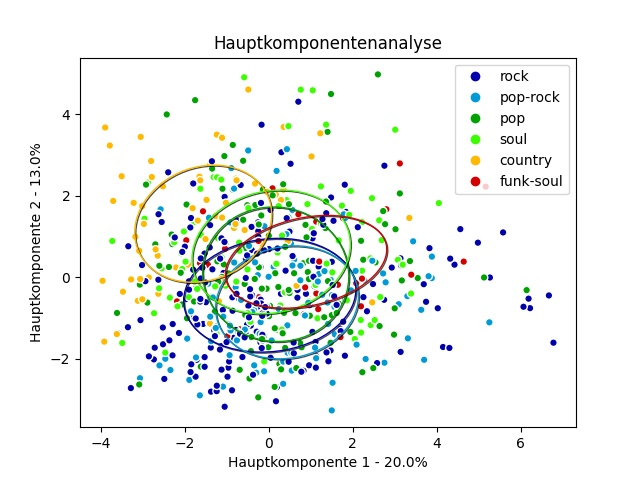
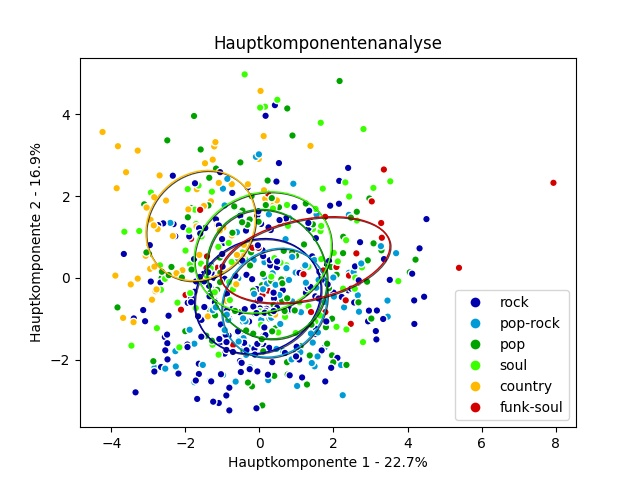
backup

diff --git a/src/dimension_reduction/common.py b/src/dimension_reduction/common.py
@@ -139,14 +139,13 @@ audio_feature_keys = ['danceability', 'energy', 'key', 'loudness', 'mode', 'spee
                       'instrumentalness', 'liveness', 'valence', 'tempo', 'duration_ms', 'time_signature']
 
 
-#feature_list_year = ['acousticness', 'danceability', 'duration_ms', 'energy', 'loudness', 'minor_percentage', 'major_percentage', 'neither_chords', 'get_added_seventh_use', 'non_triad_chords_percentage', 'tonic_percentage', 'v_to_i', 'circle_of_fifths_dist', 'circle_of_fifths_dist_largest_dist', 'chord_distances', 'chord_distances2', 'different_chords', 'different_progressions', 'different_notes', 'different_sections_count', 'chorus_repetitions']
-# feature_list_year = ['acousticness', 'danceability', 'duration_ms', 'energy', 'major_percentage', 'neither_chords', 'get_added_seventh_use', 'non_triad_chords_percentage', 'tonic_percentage', 'v_to_i', 'circle_of_fifths_dist', 'circle_of_fifths_dist_largest_dist', 'chord_distances', 'chord_distances2', 'different_chords', 'different_progressions', 'different_sections_count', 'chorus_repetitions']
-#feature_list_year = ['acousticness', 'danceability', 'duration_ms', 'energy', 'major_percentage', 'neither_chords', 'get_added_seventh_use', 'non_triad_chords_percentage', 'circle_of_fifths_dist', 'chord_distances', 'chord_distances2', 'different_sections_count', 'chorus_repetitions']
-feature_list_year = ['acousticness', 'danceability', 'duration_ms', 'energy', 'major_percentage', 'neither_chords', 'non_triad_chords_percentage', 'chord_distances2', 'different_sections_count', 'chorus_repetitions']
+# feature_list_year = ['acousticness', 'danceability', 'duration_ms', 'energy', 'major_percentage', 'neither_chords', 'non_triad_chords_percentage', 'chord_distances2', 'different_sections_count', 'chorus_repetitions']
 
+feature_list_year = ['acousticness', 'danceability', 'duration_ms', 'energy', 'major_chords', 'neither_chords', 'non_triad_chords', 'bass_distances', 'different_sections', 'chorus_repetitions']
 feature_list_chart_pos = ['danceability', 'loudness', 'minor_percentage', 'major_percentage', 'tonic_percentage', 'circle_of_fifths_dist_largest_dist', 'section_repetitions', 'chorus_repetitions']
 feature_list_spotify_popularity = ['acousticness', 'danceability', 'duration_ms', 'energy', 'loudness', 'major_percentage', 'neither_chords', 'get_added_seventh_use', 'v_to_i', 'circle_of_fifths_dist', 'circle_of_fifths_dist_largest_dist', 'different_progressions', 'different_notes', 'chorus_repetitions']
-feature_list_genre = ['acousticness', 'danceability', 'duration_ms', 'energy', 'loudness', 'speechiness', 'minor_percentage', 'major_percentage', 'neither_chords', 'get_added_seventh_use', 'non_triad_chords_percentage', 'minor_or_major', 'tonic_percentage', 'v_to_i', 'chord_distances', 'chord_distances2', 'different_chords', 'different_sections_count', 'section_repetitions']
+feature_list_genre = ['acousticness', 'danceability', 'duration_ms', 'energy', 'loudness', 'minor_chords', 'major_chords', 'seventh_chords', 'standard_triads', 'v_to_i', 'root_distances', 'bass_distances', 'different_chords', 'different_sections']
+
 
 feature_list_genre_less = ['acousticness', 'danceability', 'duration_ms', 'energy', 'loudness', 'minor_percentage', 'major_percentage']
 

diff --git a/src/helper/artists.py b/src/helper/artists.py
@@ -7,6 +7,7 @@ import pandas as pd
 from src.helper.file_helper import feature_file_path
 from src.helper.img.barplot import create_barplot
 from src.helper.img.lineplot import lineplot
+from src.helper.statistics.feature_analyzer import get_genre_group_string
 from src.helper.statistics.year_feature_median import get_median, draw_feature_line_plot, get_normalized_median
 #from src.helper.years import draw_feature_line_plot
 from src.models.song import Song
@@ -52,7 +53,7 @@ normalized_artist_dict = None
 
 def analyze_feature_median_deviation():
     dev_value_all_songs = get_deviation_value_all_songs()
-    # analyze_artists_over_time(dev_value_all_songs)
+    analyze_artists_over_time(dev_value_all_songs)
     analyze_genre_deviations_from_median(dev_value_all_songs)
 
 # TODO check if all features are normalized
@@ -91,7 +92,7 @@ def analyze_artists_over_time(dev_value_all_songs):
     print('deviation of all songs')
     dev_value_all_songs = get_deviation_value_all_songs()
     print(dev_value_all_songs)
-    create_barplot([get_deviation_value(artist) for artist in most_common_artists], most_common_artists, '$a_K$', 'a_k.jpg', '$a_K$ nach Künstler', ylim=1.4, horizontal_line=dev_value_all_songs)
+    create_barplot([get_deviation_value(artist) for artist in most_common_artists], most_common_artists, '$a_K$', 'a_k.jpg', '$a_K$ nach Künstler', ylim=1.4, horizontal_line=dev_value_all_songs, figsize=(4.48, 4.5))
 
     # for feature in list(shared.song_features_dict.values()):
     #     if feature.feature_id not in non_y_axis_features:
@@ -111,7 +112,8 @@ def analyze_genre_deviations_from_median(dev_value_all_songs):
         genre_songs = [song for _, song in df.iterrows()]
         deviation_values.append(get_deviation_value_songs(genre_songs))
 
-    create_barplot(deviation_values, genre_keys, '$a_G$', 'a_k_genres.jpg', '$a_G$ nach Musikrichtung', ylim=1.8, horizontal_line=dev_value_all_songs, figsize=(4.5, 4.8))
+    labels = [get_genre_group_string(g) for g in genre_keys]
+    create_barplot(deviation_values, labels, '$a_k$', 'a_k_genres.jpg', '$a_k$ nach Musikrichtung', ylim=1.8, horizontal_line=dev_value_all_songs, figsize=(3.5, 3.9))
 
 
 # def draw_artist_line_plots(artists):

diff --git a/src/data-analysis-main.py b/src/data-analysis-main.py
@@ -58,27 +58,27 @@ def save_feature_csv(songs):
 # save_feature_csv(songs)
 
 
-# result_dict = analyze_all_features(redraw_plots=False)
-# for key, value in result_dict.items():
-#     print(key)
-#     print(', '.join(feature.feature.feature_id.replace('_', '\_') for feature in value))
-#
+result_dict = analyze_all_features(redraw_plots=False)
+for key, value in result_dict.items():
+    print(key)
+    print(', '.join(f"'{feature.feature.feature_id}'" for feature in value))
+    # print(', '.join(feature.feature.feature_id.replace('_', '\_') for feature in value))
+
 # exit()
 #print([feature.feature.feature_id for feature in result_dict['genre']])
 # exit()
 # genres_stacked_area_plot()
-# stacked_area_plot([0,1,2,3], [[1,1,1,1],[2,2,2,2]], ['hello', 'hello2'], 'xlabel', 'ylabel', 'filename.jpg', 'title')
 
 # draw_feature_line_plots()
 # get_most_common_genres()
-# analyze_feature_median_deviation()
+#analyze_feature_median_deviation()
 
 
-#create_pca_plots()
+create_pca_plots()
 #create_mds_plots()
 # create_parallel_coordinates(result_dict)
 
-create_correlation_matrix_plt()
+# create_correlation_matrix_plt()
 # multiple_regression_all()
 # classification
 # knn_classification_all()

diff --git a/src/helper/img/barplot.py b/src/helper/img/barplot.py
@@ -20,7 +20,7 @@ def create_barplot(bar_values, labels, ylabel, filename, title, subtitle='', yli
 
     fig = plt.figure(figsize=figsize)
     # fig = plt.figure(figsize=())
-    fig.subplots_adjust(bottom=0.3)
+    fig.subplots_adjust(bottom=0.32, left=0.15)
 
     y_pos = np.arange(len(labels))
 
@@ -34,7 +34,7 @@ def create_barplot(bar_values, labels, ylabel, filename, title, subtitle='', yli
 
     addlabels(labels, bar_values)
 
-    plt.xticks(y_pos, labels, rotation=60)
+    plt.xticks(y_pos, labels, rotation=90)
     plt.ylabel(ylabel)
     plt.title(title, fontsize=14, y=1.05)
     plt.suptitle(subtitle, fontsize=10, y=0.92)
